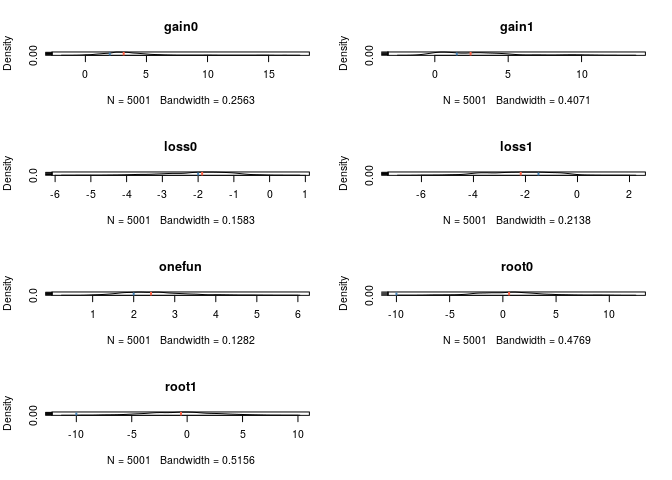
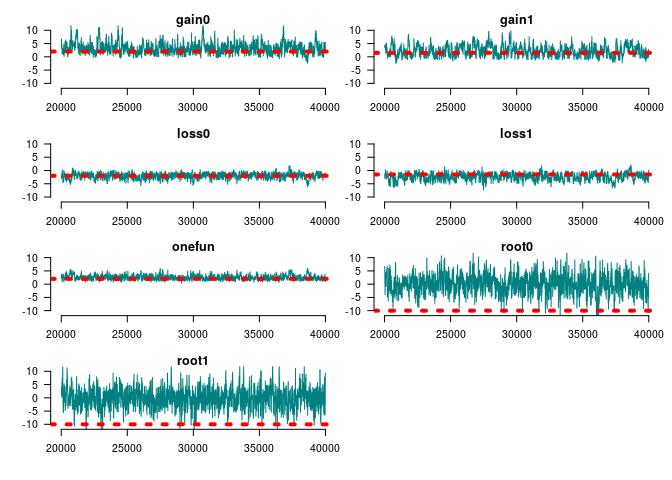
Updating figures in readme

diff --git a/README.md b/README.md
@@ -4,7 +4,6 @@
 # aphylo2
 
 <!-- badges: start -->
-
 <!-- badges: end -->
 
 The goal of aphylo2 is to …
@@ -80,6 +79,18 @@ fake <- sim_aphylo2(p = amodel, par = params, seed = 1110)
 ```
 
 ``` r
+library(aphylo)
+#> Loading required package: ape
+ap <- new_aphylo(
+  tree           = {set.seed(31);aphylo::sim_tree(n)},
+  tip.annotation = as.data.frame(do.call(rbind, fake[1:n]))
+)
+plot(ap)
+```
+
+<img src="man/figures/README-viz-with-aphylo-1.png" width="100%" />
+
+``` r
 # Fitting the model
 fake[101:199] <- replicate(99, c(9L,9L), simplify = FALSE)
 amodel <- new_model(
@@ -153,63 +164,42 @@ diag(MASS::ginv(-ans$hessian))
 set.seed(122)
 ans_mcmc <- aphylo2_mcmc(
   amodel,
-  nsteps  = 20000,
+  nsteps  = 40000,
   kernel  = fmcmc::kernel_ram(warmup = 2000), 
   prior   = function(p) dlogis(p, scale = 2, log = TRUE)
   )
-#> 
-#> |0%                 |25%                |50%                |75%           100%|
-#> --------------------------------------------------------------------------------
-#> ////////////////////////////////////////////////////////////////////////////////
-```
-
-``` r
-op <- par(mfrow = c(4, 2))
-for (i in 1:ncol(ans_mcmc)) {
-  tmpx <- window(ans_mcmc, start = 15000)[,i,drop=FALSE]
-  plot(
-    density(tmpx),
-    main = names(params)[i]
-    )
-  abline(v = quantile(tmpx, .5), lty = 2, lwd = 2, col = "tomato")
-  abline(v = params[i], lty=3, lwd=2, col = "steelblue")
-}
-par(op)
 ```
 
 <img src="man/figures/README-mcmc-analysis-1.png" width="100%" />
 
-``` r
-summary(window(ans_mcmc, start = 15000))
-#> 
-#> Iterations = 15000:20000
-#> Thinning interval = 1 
-#> Number of chains = 1 
-#> Sample size per chain = 5001 
-#> 
-#> 1. Empirical mean and standard deviation for each variable,
-#>    plus standard error of the mean:
-#> 
-#>         Mean     SD Naive SE Time-series SE
-#> par1  3.4737 2.3279  0.03292        0.37906
-#> par2  2.8471 2.7343  0.03866        0.57655
-#> par3 -2.0180 0.9663  0.01366        0.10986
-#> par4 -2.2933 1.3051  0.01846        0.16502
-#> par5  2.5153 0.8131  0.01150        0.09235
-#> par6  0.5291 3.1101  0.04398        0.39694
-#> par7 -0.5479 3.1468  0.04450        0.42594
-#> 
-#> 2. Quantiles for each variable:
-#> 
-#>         2.5%     25%     50%    75%   97.5%
-#> par1  0.1964  2.1794  3.1351  4.276  9.9887
-#> par2 -0.6170  0.7377  2.4391  4.068 10.0958
-#> par3 -4.1523 -2.6471 -1.8872 -1.323 -0.4065
-#> par4 -4.8967 -3.2830 -2.1809 -1.295 -0.1173
-#> par5  1.2103  1.9248  2.4225  2.974  4.4613
-#> par6 -5.6624 -1.5766  0.5858  2.324  7.4192
-#> par7 -6.7773 -2.7457 -0.5531  1.516  5.7348
-```
+    #> 
+    #> Iterations = 15000:40000
+    #> Thinning interval = 1 
+    #> Number of chains = 1 
+    #> Sample size per chain = 25001 
+    #> 
+    #> 1. Empirical mean and standard deviation for each variable,
+    #>    plus standard error of the mean:
+    #> 
+    #>           Mean     SD Naive SE Time-series SE
+    #> par1  3.249064 1.9591 0.012390        0.10719
+    #> par2  2.081177 1.9647 0.012426        0.13206
+    #> par3 -1.999795 1.0003 0.006326        0.04588
+    #> par4 -2.401966 1.3356 0.008447        0.07514
+    #> par5  2.562228 0.8483 0.005365        0.03982
+    #> par6  0.007906 3.5372 0.022371        0.16822
+    #> par7 -0.017456 3.5727 0.022595        0.15159
+    #> 
+    #> 2. Quantiles for each variable:
+    #> 
+    #>         2.5%     25%      50%    75%   97.5%
+    #> par1  0.1628  1.9027  3.02451  4.313  8.0296
+    #> par2 -0.8047  0.5023  1.78413  3.484  6.2260
+    #> par3 -4.1927 -2.6005 -1.91258 -1.306 -0.2993
+    #> par4 -5.1704 -3.3077 -2.34491 -1.400 -0.1107
+    #> par5  1.2453  1.9455  2.44889  3.044  4.5671
+    #> par6 -6.9166 -2.1409  0.07747  2.228  7.2453
+    #> par7 -7.2802 -2.2749 -0.02967  2.200  7.2766
 
 ## Code of Conduct
 
